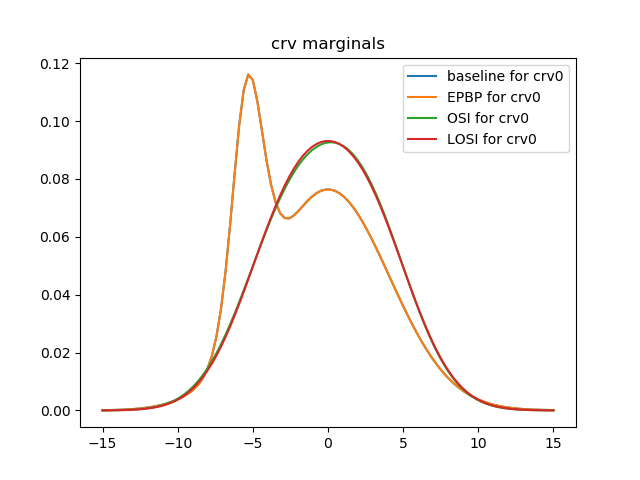
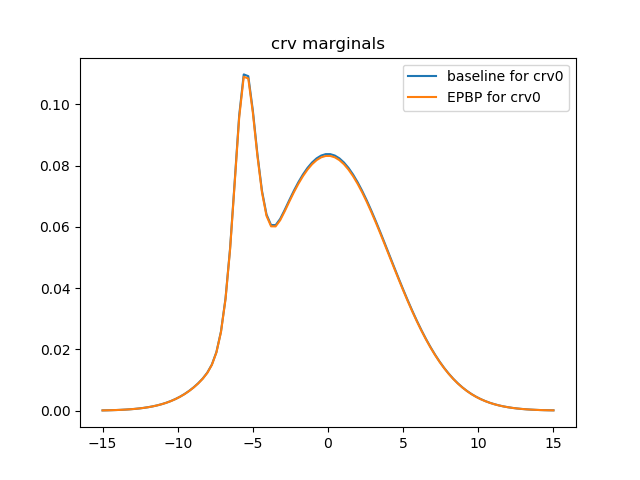
rerun with just EPBP to double check if the exact baseline was somehow plotted twice EPBP: {'cpu_time': (0.2171038240000005, 0.0),  'kl_err': (0.007021658944296428, 0.0),  'mmap_err': (5.470428938932921, 0.0),  'obj': (-1.0, 0.0),  'wall_time': (0.21709537506103516, 0.0)}

diff --git a/osi/hmln_experiment.py b/osi/hmln_experiment.py
@@ -52,7 +52,7 @@ f1 = ParamF(  # disc
     constrain=lambda sub: (sub[lv_s] == 'T1' and sub[lv_s2] == 'T1') or (sub[lv_s] == 'T1' and sub[lv_s2] == 'T2')
 )
 
-w_h = 0.4  # the stronger the more multi-modal things tend to be
+w_h = 1  # the stronger the more multi-modal things tend to be
 f2 = ParamF(  # hybrid
     MLNPotential(lambda x: x[0] * eq_op(x[1], x[2]), w=w_h),
     nb=(atom_C, atom_A, atom_B)
@@ -81,8 +81,8 @@ record_fields = ['cpu_time',
                  'mmap_err',  # |argmax p(xi) - argmax q(xi)|, avg over all nodes i
                  'kl_err',  # kl(p(xi)||q(xi)), avg over all nodes i
                  ]
-algo_names = ['baseline', 'EPBP', 'OSI', 'LOSI']
-# algo_names = ['baseline', 'EPBP']
+# algo_names = ['baseline', 'EPBP', 'OSI', 'LOSI']
+algo_names = ['baseline', 'EPBP']
 assert algo_names[0] == 'baseline'
 # for each algorithm, we keep a record, which is a dict mapping a record_field to a list (which will eventually be
 # averaged over)
